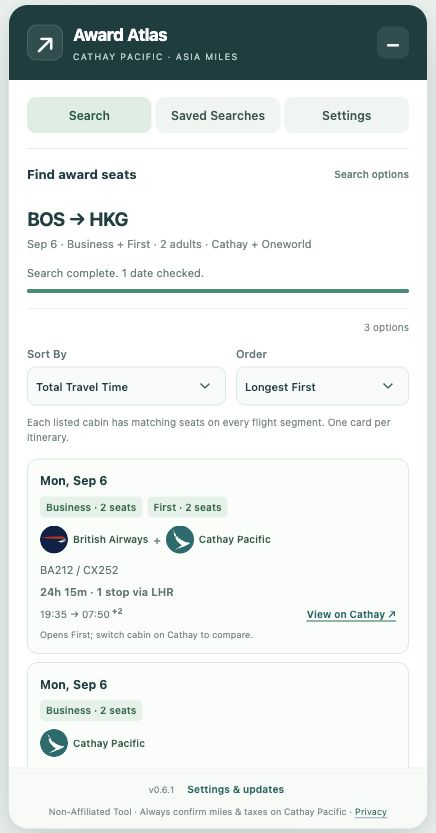
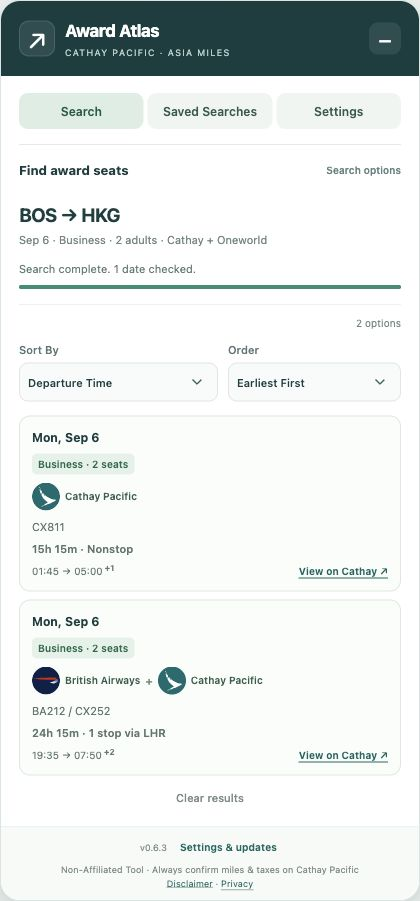
Publish Award Atlas v0.6.3 terms and downloads

diff --git a/privacy.html b/privacy.html
@@ -1,1 +1,1 @@
-<!doctype html><html lang="en"><head><meta charset="utf-8"><meta name="viewport" content="width=device-width,initial-scale=1"><title>Award Atlas privacy policy</title><link rel="stylesheet" href="style.css"><link rel="icon" href="assets/mark.svg"></head><body><main class="wrap document"><nav class="brand"><a href="./">Award Atlas</a></nav><p class="eyebrow">Last updated October 8, 2026 · Version 0.4.0</p><h1>Privacy policy</h1><p>This policy covers Award Atlas — Cathay award search and this download website, published by Nathan Tia.</p><h2>Search information</h2><p>The extension handles your selected airports, dates, cabin, adult traveler count, filters, named saved searches and normalized availability results. It reads temporary booking parameters from your selected Cathay page to run searches. It does not ask for or read your password and has no permission to read Chrome’s cookie store. Chrome sends your existing cookies directly to Cathay with same-origin requests. Temporary booking parameters and raw availability responses are not persisted in extension storage.</p><h2>Where information goes</h2><p>Your requested searches go directly to the HTTPS hosts www.cathaypacific.com, api.cathaypacific.com and book.cathaypacific.com. Search data and Cathay session information are not sent to a developer-operated server, advertising provider or analytics service. The extension does not monitor other sites or build a browsing-history profile. Airport autocomplete uses a bundled public-domain OurAirports catalog and sends no lookup query over the network.</p><h2>Local storage</h2><p>From version 0.4.0, preferences, named search configurations, and your latest normalized search results/progress are stored in Chrome extension local storage and persist across restarts and updates when the same extension identity is retained. Named searches contain choices rather than result snapshots. Temporary tab/document IDs and active-job state live in extension session storage. A restored unfinished search is paused and needs a new Cathay booking session before continuing.</p><p>Clear results removes the stored search/results; delete saved searches individually. Removing the extension deletes its local data. Data is not synchronized across devices. Earlier 0.3.x results used session storage only and are cleared by Chrome on update/reload. Signing out on Cathay ends its login separately. Cathay’s page can observe the panel content rendered on it.</p><h2>Updates and version policy</h2><p>At startup, approximately every six hours, and on manual checks, the extension requests public release metadata from api.github.com and a public JSON version policy from raw.githubusercontent.com. These requests contain no Cathay search, account or session information and no GitHub credentials. GitHub necessarily receives ordinary connection information, such as your IP address. Release versions/notes, cache validators, check times, errors and the last validated policy are cached locally. A valid minimum-version policy can require an update; network failure alone does not block use. Update Now opens GitHub Releases. ZIP upgrades require manual file replacement and Chrome Reload.</p><h2>Permissions</h2><p>Storage retains the local information described above. Scripting opens the panel and performs search operations in the selected Cathay tab. Alarms schedules update checks. Host access is limited to the three Cathay hosts and the two GitHub metadata hosts above. Content scripts run only on Cathay. All executable extension code is packaged locally; remote data is never executed as code.</p><h2>Data use and help</h2><p>Information is used to provide search, saved-search and update functionality. It is not sold, used for advertising, or transferred for unrelated purposes. The publisher cannot retrieve your local searches through a backend. For help, use <a href="https://github.com/somomentous/award-atlas/issues">GitHub issues</a>. Issues are public: include only the version and a sanitized error description, never passwords, cookies, session IDs, membership or payment details. GitHub processes what you choose to post under its own policies.</p><h2>This website</h2><p>The download website and release assets use GitHub Pages and GitHub Releases. GitHub processes request information to deliver and secure those services under its <a href="https://docs.github.com/en/site-policy/privacy-policies/github-general-privacy-statement">privacy statement</a>. The legacy support site is hosted by Cloudflare under its <a href="https://www.cloudflare.com/privacypolicy/">privacy policy</a>. These static pages add no advertising, forms, visitor analytics or cookies. Opening an external link is a separate request to its host.</p><h2>Changes</h2><p>Changes to these practices will be reflected here and in release notes. <a href="https://ourairports.com/data/">OurAirports data</a> is public domain; attribution is included in the extension package.</p><footer>Non-Affiliated Tool · Always confirm miles &amp; taxes on Cathay Pacific</footer></main></body></html>
+<!doctype html><html lang="en"><head><meta charset="utf-8"><meta name="viewport" content="width=device-width,initial-scale=1"><title>Award Atlas privacy policy</title><link rel="stylesheet" href="style.css"><link rel="icon" href="assets/mark.svg"></head><body><main class="wrap document"><nav class="brand"><a href="./">Award Atlas</a></nav><p class="eyebrow">Last updated October 9, 2026</p><h1>Privacy policy</h1><p>This policy covers Award Atlas — Cathay award search and this download website, published by SOMOMENTOUS LLC.</p><h2>Search information</h2><p>The extension handles your selected airports, dates, cabin, adult traveler count, filters, named saved searches and normalized availability results. It reads temporary booking parameters from your selected Cathay page to run searches. It does not ask for or read your password and has no permission to read Chrome’s cookie store. Chrome sends your existing cookies directly to Cathay with same-origin requests. Temporary booking parameters and raw availability responses are not persisted in extension storage.</p><h2>Where information goes</h2><p>Your requested searches go directly to the HTTPS hosts www.cathaypacific.com, api.cathaypacific.com and book.cathaypacific.com. Search data and Cathay session information are not sent to a developer-operated server, advertising provider or analytics service. The extension does not monitor other sites or build a browsing-history profile. Airport autocomplete uses a bundled public-domain OurAirports catalog and sends no lookup query over the network.</p><h2>Local storage</h2><p>From version 0.4.0, preferences, named search configurations, and your latest normalized search results/progress are stored in Chrome extension local storage and persist across restarts and updates when the same extension identity is retained. Named searches contain choices rather than result snapshots. Temporary tab/document IDs and active-job state live in extension session storage. A restored unfinished search is paused and needs a new Cathay booking session before continuing.</p><p>Clear results removes the stored search/results; delete saved searches individually. Removing the extension deletes its local data. Data is not synchronized across devices. Earlier 0.3.x results used session storage only and are cleared by Chrome on update/reload. Signing out on Cathay ends its login separately. Cathay’s page can observe the panel content rendered on it.</p><h2>Terms agreement</h2><p>The extension stores the accepted terms version, a fingerprint of the terms text, and the acceptance time in local extension storage. This record stays in your browser and is not sent to the publisher. Changes to the terms text require agreement again. Removing the extension or clearing its local storage removes the acceptance record.</p><h2>Updates and version policy</h2><p>At startup, approximately every six hours, and on manual checks, the extension requests public release metadata from api.github.com and a public JSON version policy from raw.githubusercontent.com. These requests contain no Cathay search, account or session information and no GitHub credentials. GitHub necessarily receives ordinary connection information, such as your IP address. Release versions/notes, cache validators, check times, errors and the last validated policy are cached locally. A valid minimum-version policy can require an update; network failure alone does not block use. Update Now opens GitHub Releases. ZIP upgrades require manual file replacement and Chrome Reload.</p><h2>Permissions</h2><p>Storage retains the local information described above. Scripting opens the panel and performs search operations in the selected Cathay tab. Alarms schedules update checks. Host access is limited to the three Cathay hosts and the two GitHub metadata hosts above. Content scripts run only on Cathay. All executable extension code is packaged locally; remote data is never executed as code.</p><h2>Data use and help</h2><p>Information is used to provide search, saved-search and update functionality. It is not sold, used for advertising, or transferred for unrelated purposes. The publisher cannot retrieve your local searches through a backend. For help, use <a href="https://github.com/somomentous/award-atlas/issues">GitHub issues</a>. Issues are public: include only the version and a sanitized error description, never passwords, cookies, session IDs, membership or payment details. GitHub processes what you choose to post under its own policies.</p><h2>This website</h2><p>The download website and release assets use GitHub Pages and GitHub Releases. GitHub processes request information to deliver and secure those services under its <a href="https://docs.github.com/en/site-policy/privacy-policies/github-general-privacy-statement">privacy statement</a>. The legacy support site is hosted by Cloudflare under its <a href="https://www.cloudflare.com/privacypolicy/">privacy policy</a>. These static pages add no advertising, forms, visitor analytics or cookies. Opening an external link is a separate request to its host.</p><h2>Changes</h2><p>Changes to these practices will be reflected here and in release notes. <a href="https://ourairports.com/data/">OurAirports data</a> is public domain; attribution is included in the extension package.</p><p>Read the separate <a href="disclaimer.html">use &amp; liability disclaimer</a> for account, access, and availability risks.</p><footer>Non-Affiliated Tool · Always confirm miles &amp; taxes on Cathay Pacific</footer></main></body></html>

diff --git a/disclaimer.html b/disclaimer.html
@@ -1,0 +1,29 @@
+<!doctype html>
+<html lang="en">
+<head>
+  <meta charset="utf-8">
+  <meta name="viewport" content="width=device-width,initial-scale=1">
+  <title>Award Atlas — Terms of Use Agreement</title>
+  <link rel="stylesheet" href="style.css">
+  <link rel="icon" href="assets/mark.svg" type="image/svg+xml">
+</head>
+<body>
+  <main class="wrap document">
+    <nav class="brand"><a href="./">Award Atlas</a></nav>
+    <p class="eyebrow">Last updated October 9, 2026</p>
+    <h1>Terms of Use Agreement</h1>
+    <!-- disclaimer:start -->
+<p>Last updated October 9, 2026. These terms cover the Award Atlas extension and download website, published by SOMOMENTOUS LLC. Read them before use. Before searching in the extension, you must check the agreement box and select “Agree and return to search”. Your acceptance applies to these terms, including the risk, warranty, and liability provisions below.</p>
+<h2>Independent tool</h2><p>Award Atlas is an independent tool. It is not affiliated with, endorsed by, sponsored by, or authorized by Cathay Pacific, Asia Miles, Oneworld, or any partner airline. Airline names and logos belong to their respective owners and are used for identification only.</p>
+<h2>Your responsibility for permitted use</h2><p>You are responsible for reviewing and complying with applicable laws and the current website, account, membership, and booking terms of Cathay Pacific, Asia Miles, and relevant partners. Award Atlas does not grant permission to automate access or represent that its use is permitted by those terms. Use it only where you are authorized to do so. Stop using it if your use is prohibited or the service provider asks you to stop. Do not use it to bypass access restrictions, rate limits, or verification requirements.</p>
+<h2>Third-party restrictions and account risks</h2><p>Cathay Pacific and other providers control their services. They may change their systems or terms, restrict automated access, block or disable this tool, or restrict, suspend, or terminate access to an account under their rules. The publisher cannot control those decisions or guarantee uninterrupted access, continued compatibility, or that use will not affect your account, membership benefits, or miles. You choose whether to use the tool with these risks in mind.</p>
+<h2>Information only; no warranty</h2><p>Award Atlas is provided &quot;as is&quot; and &quot;as available&quot;, without warranties to the fullest extent permitted by law. Results may be incomplete, inaccurate, delayed, or unavailable. They are not a reservation, offer, price guarantee, or confirmation of bookable seats. Confirm availability, cabin, connections, miles, taxes, fees, and booking conditions directly with Cathay Pacific before relying on results, transferring points, paying, or making travel plans. Continued maintenance or support is not guaranteed.</p>
+<h2>Limitation of liability and hold harmless</h2><p>To the fullest extent permitted by applicable law, you agree to release and hold harmless SOMOMENTOUS LLC and Award Atlas contributors from your claims for losses arising from your use of or inability to use the tool, reliance on its results, your breach of third-party terms, or third-party restrictions on access. This includes lost miles or benefits, missed awards, travel expenses, lost data, and indirect or consequential losses. This clause does not exclude or limit liability for fraud, intentional misconduct, gross negligence, or any liability or consumer right that applicable law does not allow to be excluded, limited, or waived.</p>
+<h2>Limits of this notice</h2><p>This notice does not amend or override any airline&#39;s terms, bind Cathay Pacific or another third party, or prevent them from asserting their own rights or claims. It does not guarantee that any waiver or limitation will be enforceable. Rights that cannot lawfully be waived remain unaffected. The software&#39;s MIT License remains in effect; this notice does not remove permissions granted by that license.</p>
+    <!-- disclaimer:end -->
+    <h2>Read the provider's terms</h2>
+    <p><a href="https://www.cathaypacific.com/cx/en_ID/legal-and-privacy/cx-website-and-mobile-application-terms-of-use.html" rel="noopener noreferrer" target="_blank">Cathay website and mobile application terms</a> · <a href="https://www.cathaypacific.com/cx/en_ID/legal-and-privacy/cathay-membership-terms-and-conditions.html" rel="noopener noreferrer" target="_blank">Cathay membership terms</a>. Review the terms applicable to your location and account.</p>
+    <footer><a href="./">Back to Award Atlas</a> · <a href="privacy.html">Privacy</a></footer>
+  </main>
+</body>
+</html>

diff --git a/index.html b/index.html
@@ -32,7 +32,8 @@
           </a>
           <a class="text-link" href="#install">Installation guide</a>
         </div>
-        <p class="download-meta">Free · v0.6.2 · Desktop Chrome on Mac &amp; Windows</p>
+        <p class="download-disclaimer">Use at your own risk. Cathay may block this tool or restrict accounts. You are responsible for following its terms. <a href="disclaimer.html">Read the use &amp; liability disclaimer</a>.</p>
+        <p class="download-meta">Free · v0.6.3 · Desktop Chrome on Mac &amp; Windows</p>
         <p class="store-note">Choose multiple cabins, compare up to four airport routes, and sort by time, duration, stops or cabin class. Install manually from GitHub Releases.</p>
         <dl class="quick-facts">
           <div><dt>1 / 7 / 14 / 30</dt><dd>days, or a whole month</dd></div>
@@ -41,8 +42,8 @@
         </dl>
       </div>
       <figure class="product-preview">
-        <div class="preview-topline"><span>THE LITTLE PANEL WITH BIG PLANS</span><span>v0.6.2</span></div>
-        <img class="panel-image" src="assets/panel.jpg?v=0.6.2" width="436" height="833" alt="Award Atlas result cards with multiple cabin matches, sorting controls, total travel time and arrival-day offsets.">
+        <div class="preview-topline"><span>THE LITTLE PANEL WITH BIG PLANS</span><span>v0.6.3</span></div>
+        <img class="panel-image" src="assets/panel.jpg?v=0.6.3" width="420" height="901" alt="Award Atlas v0.6.3 results with Cathay and mixed-partner flights, sorting controls, total travel time and arrival-day offsets.">
         <figcaption>Extension panel in a local preview. Search directly on your Cathay tab.</figcaption>
       </figure>
     </section>
@@ -64,7 +65,7 @@
         <ol class="steps">
           <li><span class="step-number">1</span><div><h3>Download and extract</h3><p>Download the ZIP above. On <strong>Mac</strong>, double-click it. On <strong>Windows</strong>, right-click and choose <strong>Extract All</strong>. Keep the extracted <code>award-atlas-extension</code> folder somewhere permanent, such as Documents.</p></div></li>
           <li><span class="step-number">2</span><div><h3>Add it to Chrome</h3><p>Type <code>chrome://extensions</code> into Chrome’s address bar. Turn on <strong>Developer mode</strong>, click <strong>Load unpacked</strong>, and select the <code>award-atlas-extension</code> folder containing <code>manifest.json</code>.</p><p class="step-hint">Select the extracted folder, not the ZIP. Keep that folder in place after installing.</p></div></li>
-          <li><span class="step-number">3</span><div><h3>Sign in. Open the panel. Explore.</h3><p>Pin Award Atlas from Chrome’s puzzle-piece menu. Sign in directly on <a href="https://www.cathaypacific.com/" rel="noopener noreferrer" target="_blank">Cathay Pacific</a>, refresh the tab, and click the extension icon. Choose your route and dates, then <strong>Search award seats</strong>.</p></div></li>
+          <li><span class="step-number">3</span><div><h3>Sign in. Open the panel. Explore.</h3><p>Pin Award Atlas from Chrome’s puzzle-piece menu. Sign in directly on <a href="https://www.cathaypacific.com/" rel="noopener noreferrer" target="_blank">Cathay Pacific</a>, refresh the tab, and click the extension icon. Review the <a href="disclaimer.html">Terms of Use Agreement</a> from SOMOMENTOUS LLC in the panel, check the agreement box, and confirm to unlock Search. Choose your route and dates, then <strong>Search award seats</strong>.</p></div></li>
         </ol>
       </div>
     </section>
@@ -83,7 +84,7 @@
 
   <footer class="site-footer wrap">
     <div><a class="brand" href="./"><img src="assets/mark.svg" width="30" height="30" alt=""><span>Award Atlas</span></a><p>Non-Affiliated Tool · Always confirm miles &amp; taxes on Cathay Pacific</p><p>Not affiliated with or endorsed by Cathay Pacific or Asia Miles.</p></div>
-    <nav aria-label="Footer navigation"><a href="privacy.html">Privacy</a><a href="https://github.com/somomentous/award-atlas/issues">Help</a><a href="https://github.com/somomentous/award-atlas">GitHub</a></nav>
+    <nav aria-label="Footer navigation"><a href="disclaimer.html">Disclaimer</a><a href="privacy.html">Privacy</a><a href="https://github.com/somomentous/award-atlas/issues">Help</a><a href="https://github.com/somomentous/award-atlas">GitHub</a></nav>
   </footer>
 </body>
 </html>

diff --git a/style.css b/style.css
@@ -6,3 +6,5 @@
 @media(max-width:800px){.wrap{width:calc(100% - 48px)}.site-header{min-height:85px}.hero{grid-template-columns:1fr;gap:42px;padding-block:45px}.hero-copy{max-width:570px}h1{font-size:57px;letter-spacing:-2.5px}.intro{max-width:510px}.product-preview{width:100%;max-width:570px;display:none}.quick-facts{gap:25px;margin-top:28px}.quick-facts>div+div{padding-left:25px}.quick-facts dt{font-size:15px}.quick-facts dd{font-size:12px}.benefits{gap:20px;padding-block:30px 40px}.benefits h2{font-size:17px}.benefits p{font-size:13px}.install-grid,.essentials{grid-template-columns:1fr;gap:35px}.install-heading h2{font-size:36px}.install-heading h2 br{display:none}.install-heading>p:not(.eyebrow){max-width:530px}.install-heading .text-link{margin-top:4px}.install-section{padding-block:45px}.essentials{padding-block:45px}.essentials h2{max-width:none;font-size:29px;margin-bottom:0}.site-footer{flex-direction:column;gap:22px}}
 @media(max-width:480px){.wrap{width:calc(100% - 36px)}.brand{font-size:19px;gap:8px}.brand img{width:32px;height:32px}.site-header nav{gap:18px}.site-header nav a{font-size:12px}.site-header nav a svg{display:none}.hero{padding-top:35px}.eyebrow{font-size:9px;letter-spacing:1.1px;gap:8px}h1{font-size:45px;letter-spacing:-1.8px;margin-block:20px}.intro{font-size:17px;line-height:1.7}.hero-actions{align-items:flex-start;flex-direction:column;gap:18px}.button{width:100%;padding:17px 18px}.hero-actions>.text-link{align-self:center}.download-meta{text-align:center;font-size:11px;margin-top:18px}.store-note{text-align:center;font-size:11px}.quick-facts{justify-content:space-between;gap:10px;padding-top:23px}.quick-facts>div+div{padding-left:10px}.quick-facts dt{font-size:12px}.quick-facts dd{font-size:10px;max-width:100px}.benefits{grid-template-columns:1fr;gap:25px}.benefits article{display:grid;grid-template-columns:25px 1fr;gap:0 12px}.feature-number{grid-row:1 / 3;margin-top:2px}.benefits h2{font-size:18px;margin-bottom:6px}.benefits p{font-size:14px;grid-column:2}.steps li{gap:14px}.steps h3{font-size:17px}.steps p,.faq p{font-size:14px}.install-heading h2{font-size:34px}.faq summary{font-size:15px}.site-footer p{font-size:10px}.document h1{font-size:38px}}
 @media(prefers-reduced-motion:reduce){html{scroll-behavior:auto}}
+
+.download-disclaimer{font-size:13px;line-height:1.65;color:var(--muted);max-width:470px;margin:18px 0 0;padding:12px 14px;border:1px solid var(--line);border-radius:9px;background:var(--soft)}.download-disclaimer a{font-weight:650}.document footer{margin-top:32px;padding-top:20px;border-top:1px solid var(--line)}

diff --git a/README.md b/README.md
@@ -4,13 +4,19 @@ A free Chrome extension for searching Cathay Pacific award seats in a compact pa
 
 [Website](https://somomentous.github.io/award-atlas/) · [Download ZIP](https://github.com/somomentous/award-atlas/releases/latest/download/Award-Atlas.zip) · [Release notes](https://github.com/somomentous/award-atlas/releases)
 
+## Use and liability
+
+Use at your own risk. Cathay may block the tool or restrict accounts. You are responsible for following its terms. Read the [use & liability disclaimer](https://somomentous.github.io/award-atlas/disclaimer.html) before using Award Atlas; a copy is included in the ZIP. The notice does not override Cathay’s terms or waive rights that cannot legally be waived.
+
 ## Install
 
 Download the release ZIP asset, not GitHub’s Source code archive. Extract it (double-click on Mac; Extract All on Windows), keep the `award-atlas-extension` folder in a permanent location, then open `chrome://extensions` in desktop Chrome 120+. Enable Developer mode, click Load unpacked, and select the folder containing `manifest.json`. Pin Award Atlas, sign in directly on Cathay, refresh that tab, and click the extension icon.
 
+Before your first search, open **Terms of Use Agreement**, review the terms from **SOMOMENTOUS LLC**, check the agreement box, and select **Agree and return to search**. Acceptance is kept locally; changed terms require agreement again.
+
 Choose airports with city/country/name/IATA suggestions, then cabin, adults, and 1/7/14/30 days or a month for a single route. Select up to two airports per field to compare routes over 1 or 7 days (at most 28 route/date checks). Keep the Cathay tab open. Save Search stores named configurations for later use; Saved Searches lets you run, rename, edit or delete them.
 
-Version 0.6.2 includes Oneworld partner itineraries returned by Cathay by default. Turn on **Exclude Oneworld Partners** for Cathay-only results. Circular airline icons, including Hawaiian, identify each distinct carrier on mixed itineraries, with a generic Oneworld fallback where needed.
+Version 0.6.3 includes Oneworld partner itineraries returned by Cathay by default. Turn on **Exclude Oneworld Partners** for Cathay-only results. Circular airline icons, including Hawaiian, identify each distinct carrier on mixed itineraries, with a generic Oneworld fallback where needed.
 
 ## Update
 
@@ -28,7 +34,14 @@ Cathay website changes, session expiry and limits can interrupt searches. Unchec
 
 Not affiliated with Cathay Pacific or Asia Miles. [MIT License](LICENSE). This repository hosts the public website, JSON version policy and release assets.
 
-## New in v0.6.2
+## New in v0.6.3
+
+- Review and explicitly agree to the Terms of Use Agreement before searching, including saved searches and resumed searches.
+- Keep acceptance in this browser and require agreement again when the terms text changes.
+- Include the full agreement from SOMOMENTOUS LLC in the panel, ZIP and website, with updated privacy information.
+- Show clear extension Reload and Cathay refresh instructions if the panel is paired with older background code.
+
+## Included from v0.6.2
 
 - Fix missing Business results when Premium Economy + Business are selected together, without extra date checks.
 - Start every new search with Departure Time / Earliest First. Changing the sort for existing results still persists through reloads.

diff --git a/CHANGELOG.md b/CHANGELOG.md
@@ -1,5 +1,12 @@
 # Changelog
 
+## 0.6.3 — 2026-10-09
+
+- Require explicit agreement before the first search, including saved and resumed searches. Keep acceptance locally and ask again when the terms text changes.
+- Detect an older extension background worker before accepting terms and provide clear extension Reload / Cathay refresh instructions instead of an unsupported-action error.
+- Identify the publisher as SOMOMENTOUS LLC in the agreement, disclaimer and privacy policy. Move the concise disclaimer below the action button and remove the two search helper lines.
+- Add a visible use-at-your-own-risk notice and an offline use & liability disclaimer in the panel. Include the same full notice in the ZIP and download website, covering provider terms, account/access restrictions, warranty/liability limits and non-waivable rights.
+
 ## 0.6.2 — 2026-10-08
 
 - Start multi-cabin searches using the same Cathay booking request as All Cabins, then filter to the selected cabins. This avoids a Premium Economy session limiting Premium Economy + Business results.
